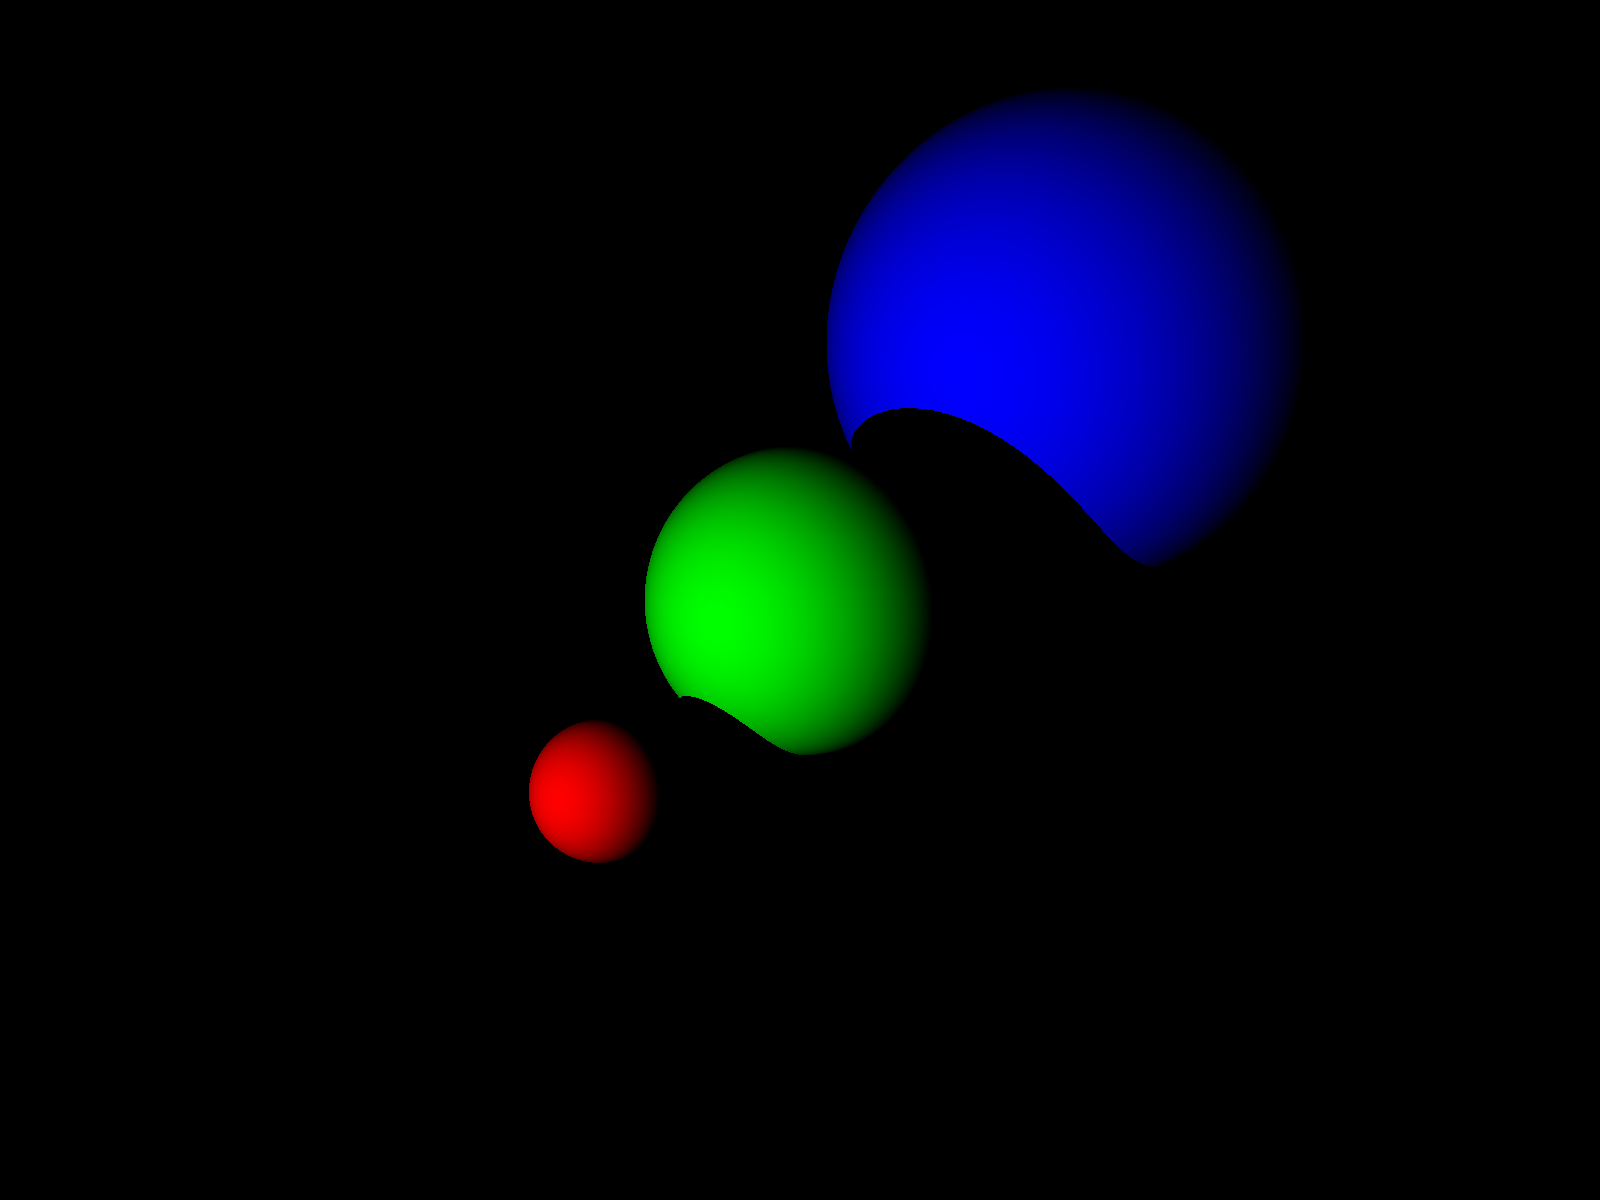
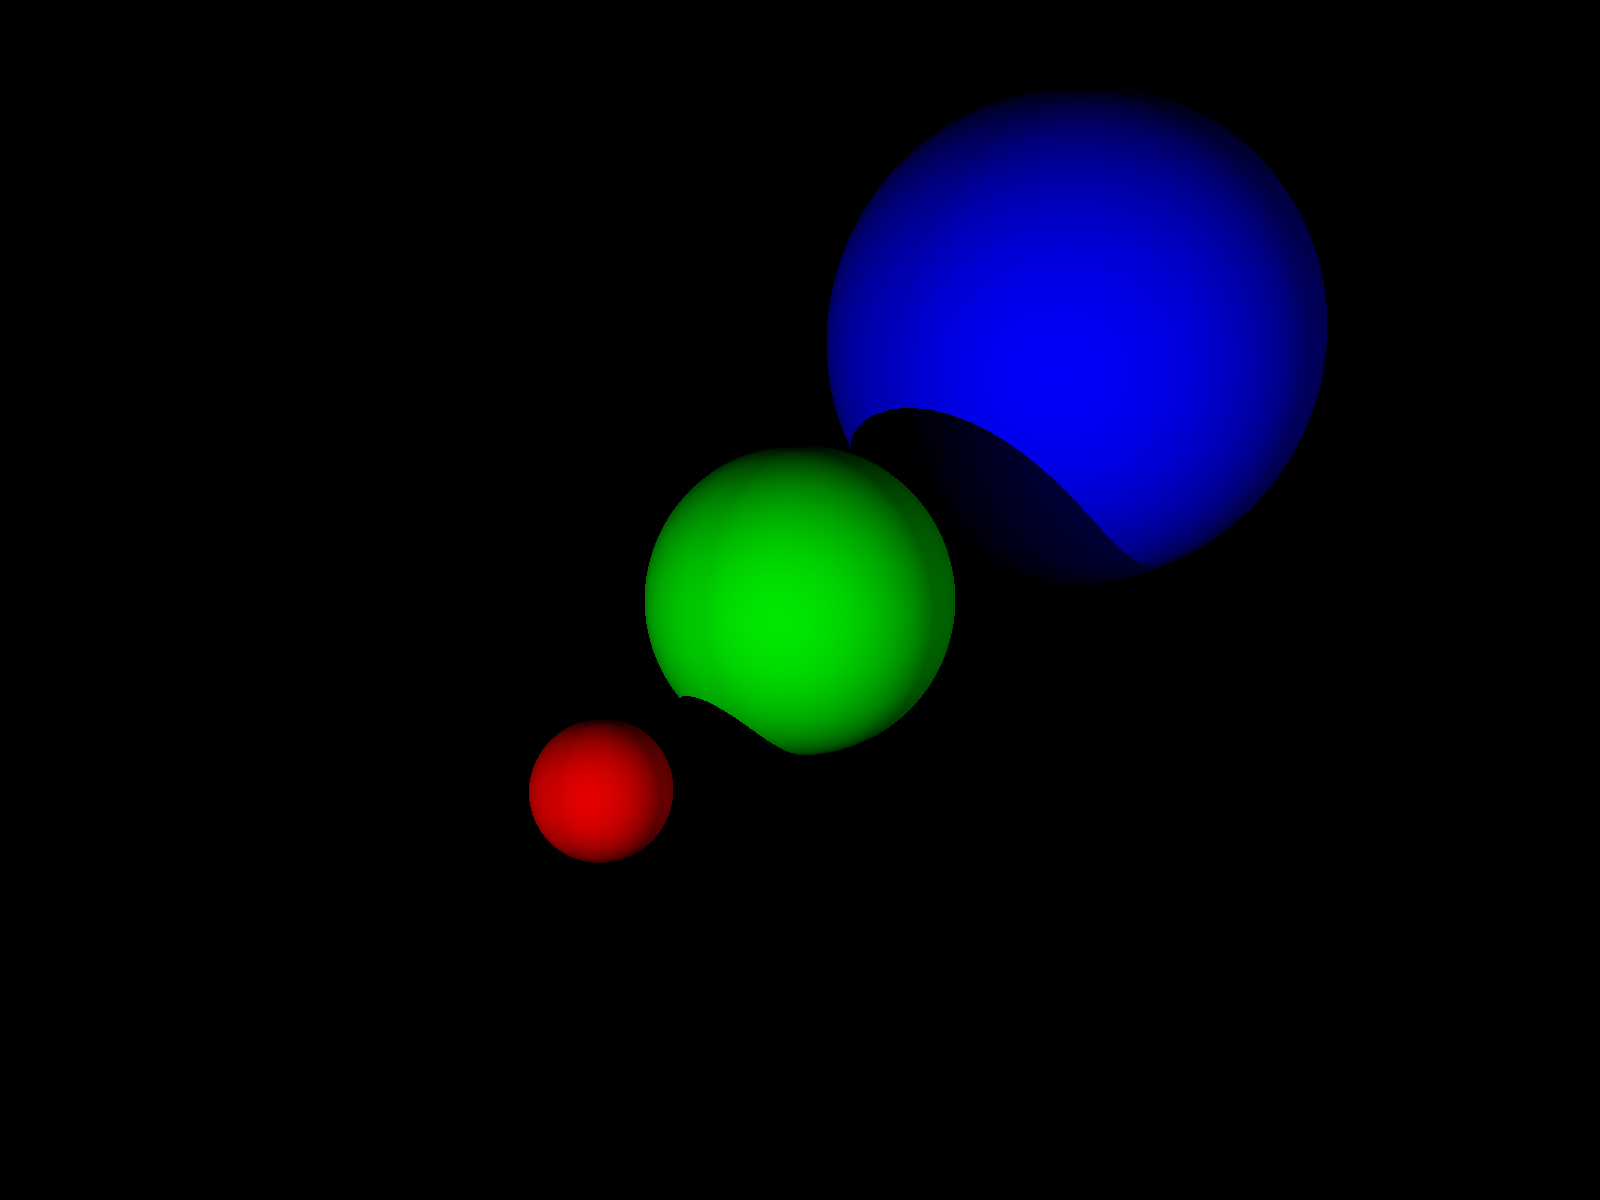
Add multiple light support

Changed region(s): [[0.5, 0.0617, 0.8438, 0.6167], [0.4062, 0.4008, 0.4688, 0.6167], [0.3125, 0.5858, 0.4375, 0.7092]]

diff --git a/src/main.rs b/src/main.rs
@@ -3,7 +3,7 @@ use std::fs::File;
 use std::io::BufWriter;
 use std::path::Path;
 
-const EPSILON: f32 = 0.0002;
+const SHADOW_BIAS: f32 = 0.0002;
 
 trait Trace {
     fn intersect(&self, ray: &Ray) -> Option<Hit>;
@@ -24,6 +24,7 @@ struct Ray {
 #[derive(Debug)]
 struct Light {
     position: Point3<f32>,
+    intensity: f32,
 }
 
 #[derive(Debug)]
@@ -58,7 +59,7 @@ struct Object {
 struct Scene {
     objects: Vec<Object>,
     camera: Camera,
-    light: Light,
+    lights: Vec<Light>,
 }
 
 impl Ray {
@@ -72,8 +73,8 @@ impl Ray {
 }
 
 impl Light {
-    fn new(position: Point3<f32>) -> Light {
-        Light { position }
+    fn new(position: Point3<f32>, intensity: f32) -> Light {
+        Light { position, intensity }
     }
 }
 
@@ -141,11 +142,11 @@ impl Camera {
 }
 
 impl Scene {
-    fn new(objects: Vec<Object>, camera: Camera, light: Light) -> Scene {
+    fn new(objects: Vec<Object>, camera: Camera, lights: Vec<Light>) -> Scene {
         Scene {
             objects,
             camera,
-            light,
+            lights,
         }
     }
 
@@ -156,17 +157,24 @@ impl Scene {
             Some(hit) => hit,
         };
 
-        let hit_point = ray.point_at_distance(hit.distance) + hit.normal * EPSILON;
-        let shadow_ray_direction = (self.light.position - hit_point).normalize();
-        let shadow_ray = Ray::new(hit_point, shadow_ray_direction);
+        let hit_point = ray.point_at_distance(hit.distance) + hit.normal * SHADOW_BIAS;
+        let mut color = Vector3::new(0.0, 0.0, 0.0);
 
-        if self.intersect(&shadow_ray).is_some() {
-            return Vector3::new(0.0, 0.0, 0.0);
+        for light in &self.lights {
+            let shadow_ray_direction = (light.position - hit_point).normalize();
+            let shadow_ray = Ray::new(hit_point, shadow_ray_direction);
+
+            if self.intersect(&shadow_ray).is_some() {
+                // This light does not contribute to this object
+                continue;
+            }
+
+            let shade = f32::max(0.0, hit.normal.dot(&shadow_ray_direction));
+
+            color += shade * object.material.color * light.intensity;
         }
 
-        let shade = f32::max(0.0, hit.normal.dot(&shadow_ray_direction));
-
-        shade * object.material.color
+        color
     }
 
     fn intersect(&self, ray: &Ray) -> Option<(Hit, &Object)> {
@@ -195,11 +203,14 @@ fn main() {
         ),
     ];
 
-    let light = Light::new(Point3::new(-40.0, 20.0, 0.0));
+    let lights = vec![
+        Light::new(Point3::new(-40.0, 20.0, 0.0), 0.8),
+        Light::new(Point3::new(0.0, 20.0, -50.0), 0.4),
+    ];
 
     let camera = Camera::new(Point3::new(-30.0, 30.0, -20.0), Point3::new(0.0, 0.0, 0.0));
 
-    let scene = Scene::new(objects, camera, light);
+    let scene = Scene::new(objects, camera, lights);
 
     let mut scene_buffer = [0; (WIDTH * HEIGHT * 3) as usize];
 
